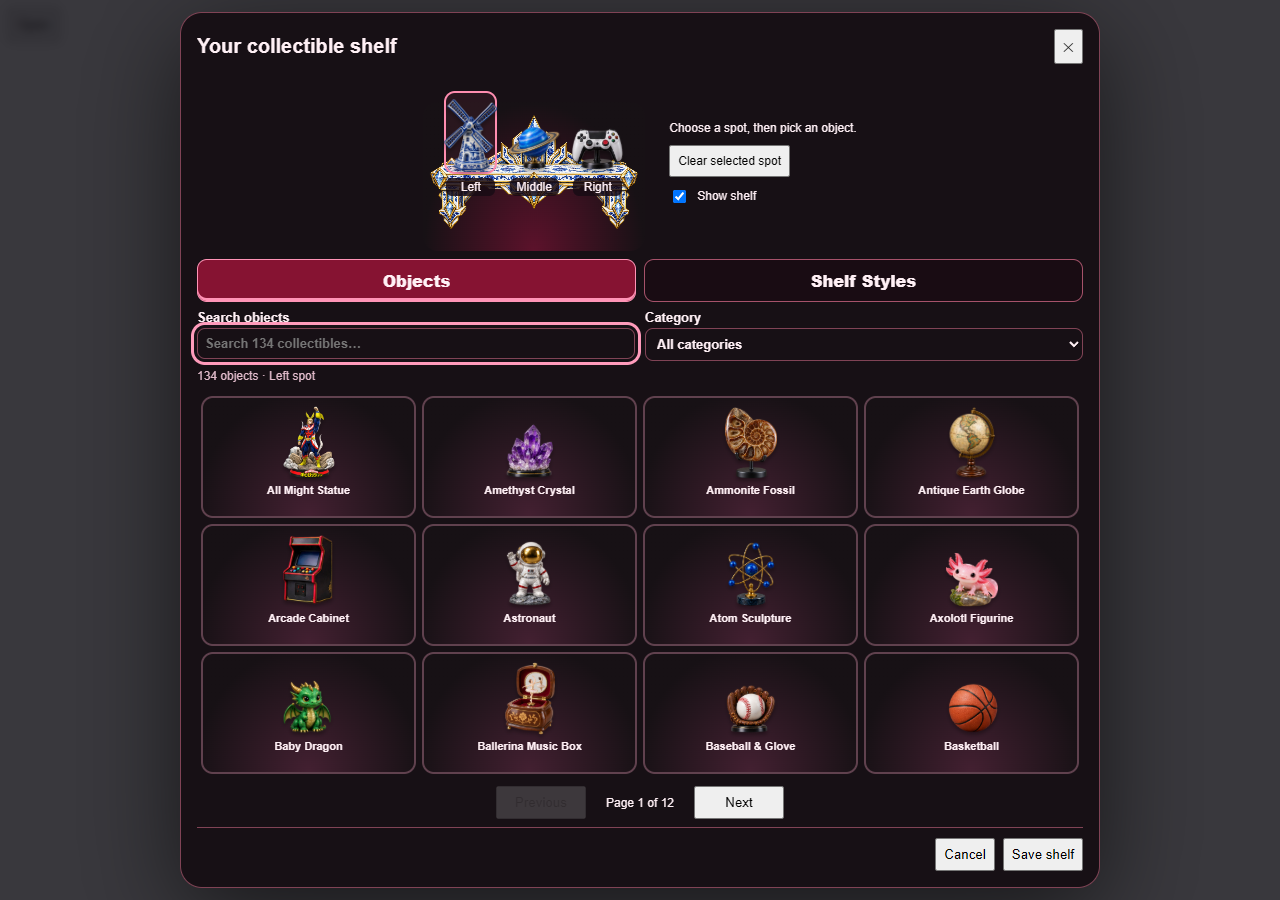
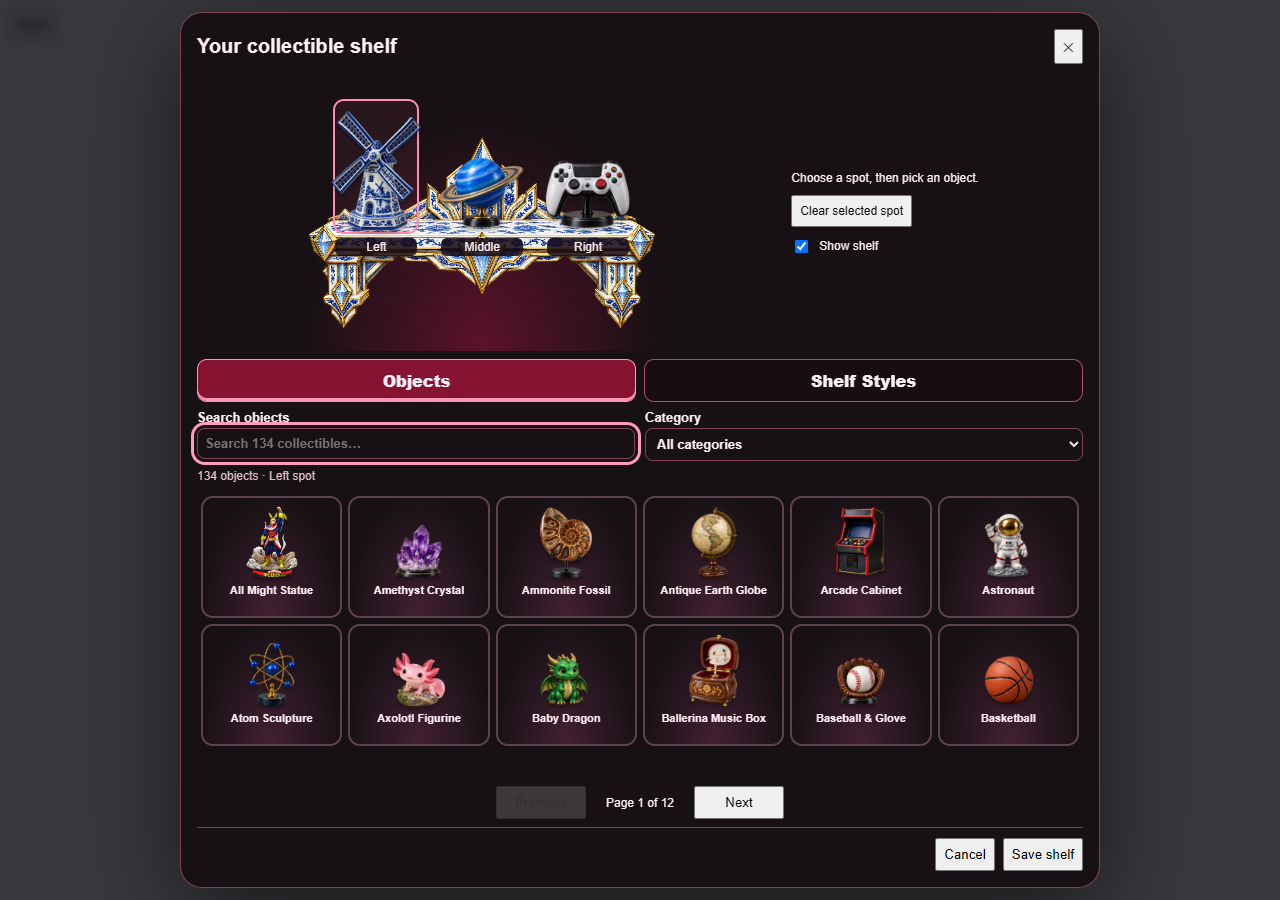
Enlarge shelf preview and improve customizer spacing

Changed region(s): [[0.125, 0.0933, 0.8438, 0.8711], [0.8125, 0.3733, 0.8438, 0.4044]]

diff --git a/collectible-shelf.css b/collectible-shelf.css
@@ -102,8 +102,8 @@
 .shelf-dialog [hidden] { display:none !important; }
 .shelf-dialog .launch-scene-dialog-heading { align-items:center; }
 .shelf-dialog h2 { margin:0; font-size:20px; }
-.shelf-preview-area { display:flex; justify-content:center; align-items:center; gap:24px; min-height:170px; }
-.shelf-dialog #shelfPreview { width:210px; flex-shrink:0; margin:30px 0 0; padding:0 6px 20px; }
+.shelf-preview-area { display:flex; justify-content:space-evenly; align-items:center; gap:24px; min-height:240px; }
+.shelf-dialog #shelfPreview { width:350px; flex-shrink:0; margin:44px 0 0; padding:0 6px 20px; }
 .shelf-preview-controls { font-size:12px; max-width:190px; }
 .shelf-preview-controls p { margin:4px 0 10px; }
 .shelf-preview-controls button { font-size:12px; }
@@ -124,6 +124,9 @@
 .shelf-pagination { display:flex; justify-content:center; align-items:center; gap:20px; font-size:12px; }
 .shelf-pagination button { min-width:90px; }
 .shelf-dialog button:disabled { opacity:.45; cursor:default; }
+@media(min-width:800px) and (min-height:651px) {
+  .shelf-dialog .shelf-choice-grid { grid-template-columns:repeat(6,minmax(0,1fr)); }
+}
 .shelf-dialog .shelf-dialog-actions { position:static; display:flex; align-items:center; justify-content:flex-end; gap:8px; padding:10px 0 0; margin:0; }
 #shelfSaveStatus { margin-right:auto; font-size:12px; }
 @media(max-width:600px) {

diff --git a/index.html b/index.html
@@ -13,7 +13,7 @@
   <link rel="stylesheet" href="styles.css?v=20260920-corner-v38">
   <link rel="stylesheet" href="launchpad-scenes.css?v=20260920-scenes-v35">
   <link rel="stylesheet" href="scene-frame-fit.css?v=20260920-fit-v3">
-  <link rel="stylesheet" href="collectible-shelf.css?v=20260921-v13">
+  <link rel="stylesheet" href="collectible-shelf.css?v=20260921-v14">
 </head>
 <body>
   <main id="app" class="app-shell"></main>
